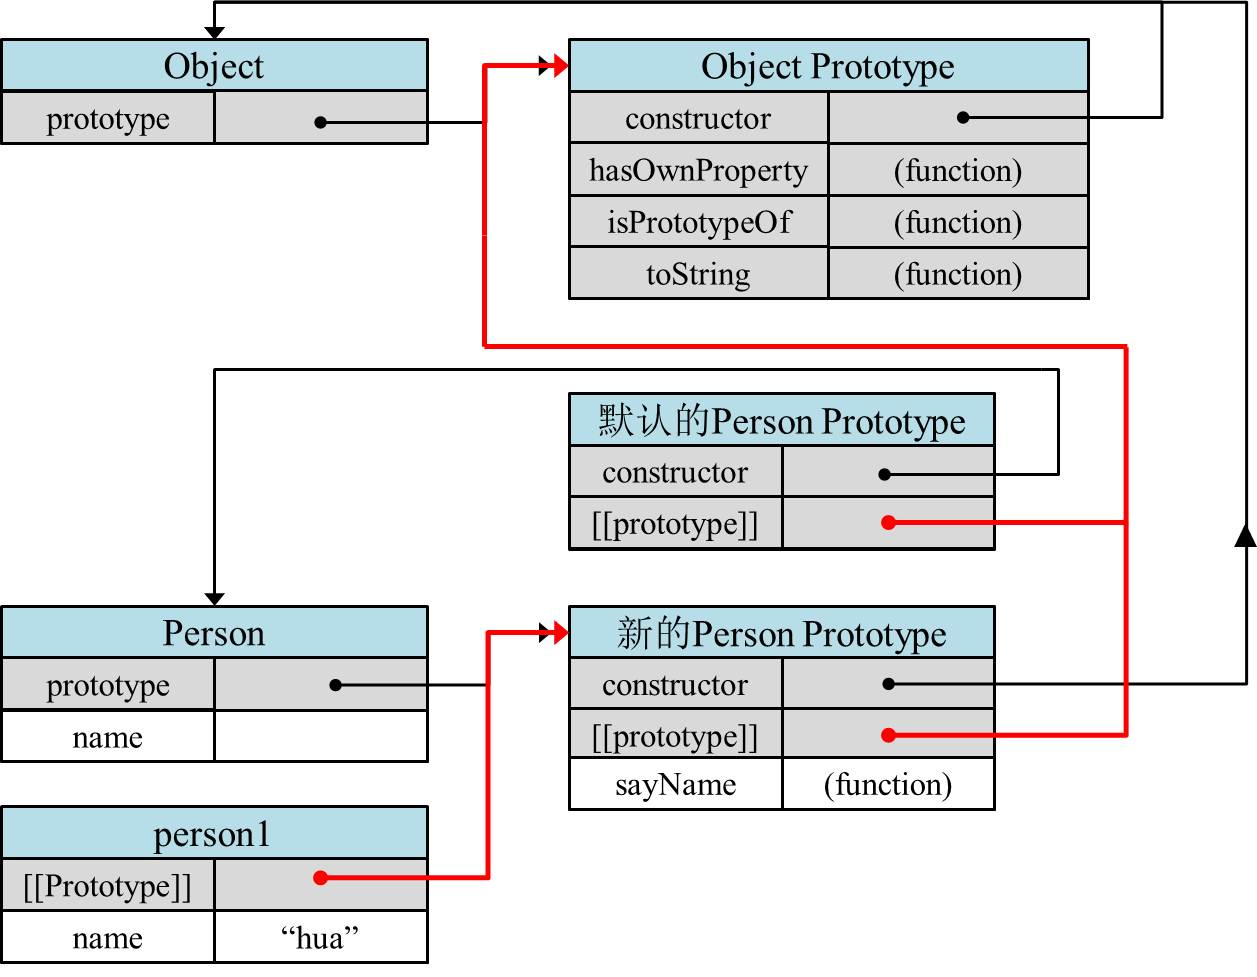
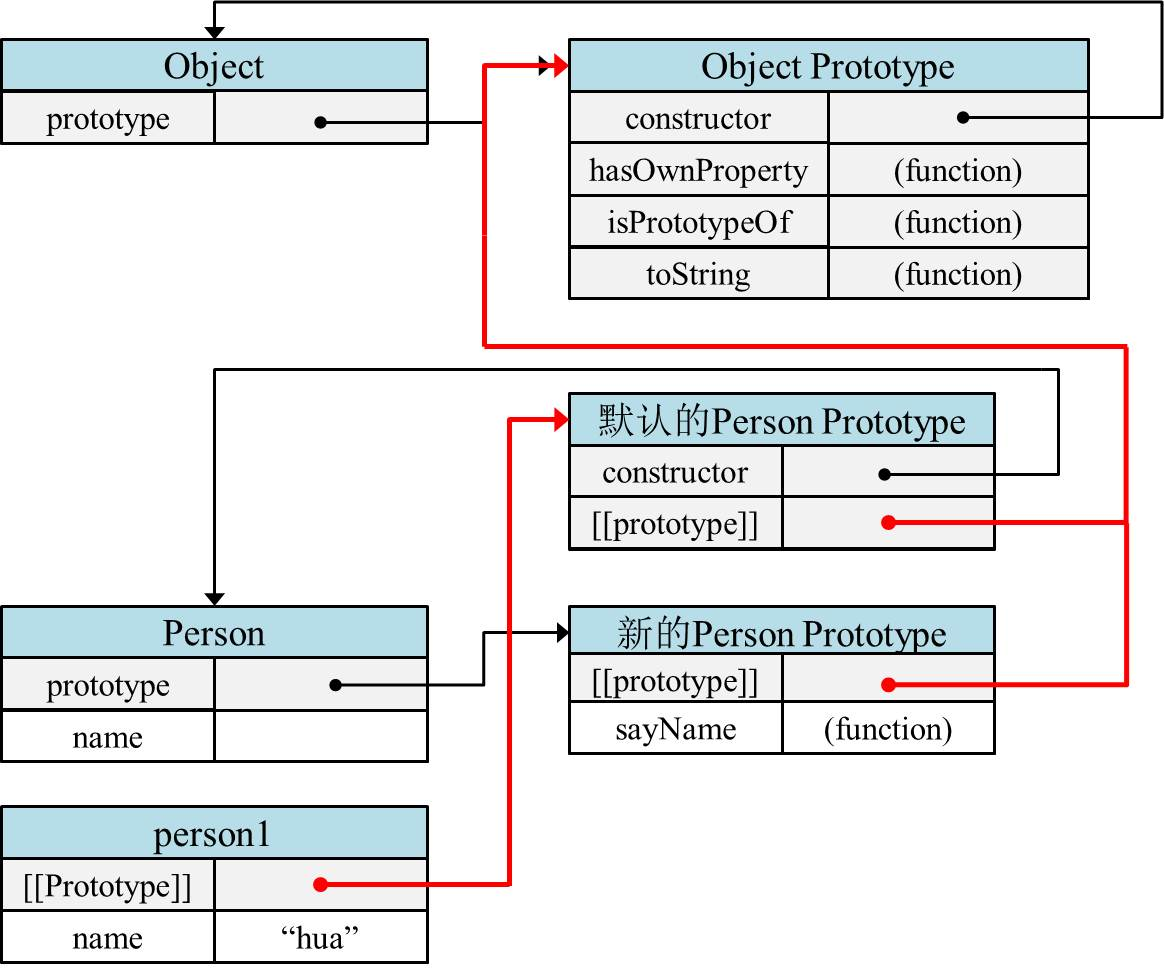
Site updated: 2018-03-04 13:51:41

diff --git a/2017/11/18/深入理解JS系列-Part3（原型和继承）/index.html b/2017/11/18/深入理解JS系列-Part3（原型和继承）/index.html
@@ -81,11 +81,11 @@
 <meta property="og:image" content="http://yoursite.com/img/深入理解JS系列/obj.jpg">
 <meta property="og:image" content="http://yoursite.com/img/深入理解JS系列/add1.jpg">
 <meta property="og:image" content="http://yoursite.com/img/深入理解JS系列/add2.jpg">
+<meta property="og:image" content="http://yoursite.com/img/深入理解JS系列/chain.jpg">
 <meta property="og:image" content="http://yoursite.com/img/深入理解JS系列/rewrite.jpg">
 <meta property="og:image" content="http://yoursite.com/img/深入理解JS系列/constructor.jpg">
-<meta property="og:image" content="http://yoursite.com/img/深入理解JS系列/chain.jpg">
 <meta property="og:image" content="http://yoursite.com/img/深入理解JS系列/BnewA.jpg">
-<meta property="og:updated_time" content="2017-12-28T14:59:21.809Z">
+<meta property="og:updated_time" content="2018-03-04T05:49:26.667Z">
 <meta name="twitter:card" content="summary">
 <meta name="twitter:title" content="深入理解JS系列-Part3（原型和继承）">
 <meta name="twitter:description" content="本篇是深入理解JS系列 的Part3，我们将要探讨的是JavaScript区别于传统OO语言的新的继承机制：原型和继承。JavaScript中没有类，继承是通过原型来实现的。ES6虽然引入了class关键字，但只是语法糖，JavaScript仍然是基于原型的。原型和继承是JavaScript中的一个难点。我们只有深入理解原型和继承，才能构建如谷歌一样的大型复杂应用。 参考书籍：《JavaScrip">
@@ -365,10 +365,6 @@
 </li>
 </ul>
 <p><strong><em>因此，我们应该在构造函数中定义实例化的属性，在原型对象中定义方法和共享的属性，这样每个实例都会有自己的一份实例属性的副本，但同时又共享着对方法的引用。</em></strong></p>
-<h2 id="重写原型对象"><a href="#重写原型对象" class="headerlink" title="重写原型对象"></a>重写原型对象</h2><p>如果以对象字面量的语法来重写整个原型，代码示例如下：<br><figure class="highlight plain"><table><tr><td class="gutter"><pre><div class="line">1</div><div class="line">2</div><div class="line">3</div><div class="line">4</div><div class="line">5</div><div class="line">6</div><div class="line">7</div><div class="line">8</div><div class="line">9</div><div class="line">10</div></pre></td><td class="code"><pre><div class="line">function Person(name) &#123;</div><div class="line">    this.name = name;</div><div class="line">&#125;</div><div class="line">Person.prototype = &#123;</div><div class="line">    sayName: function() &#123;</div><div class="line">        console.log(this.name);</div><div class="line">    &#125;</div><div class="line">&#125;;</div><div class="line">var person1 = new Person(&quot;hua&quot;);</div><div class="line">person1.sayName();// hua</div></pre></td></tr></table></figure></p>
-<p>以上代码用图表示就是：<br><img src="/img/深入理解JS系列/rewrite.jpg" alt=""><br>我们会发现，将一个以对象字面量形式创建的新对象赋给Person.prototype后，虽然执行结果相同，但<strong><em>原型对象的constructor属性不再指向Person函数了</em></strong>，而是指向Object构造函数。<br>用代码证明如下：<br><figure class="highlight plain"><table><tr><td class="gutter"><pre><div class="line">1</div><div class="line">2</div></pre></td><td class="code"><pre><div class="line">Person.prototype.constructor === Person;// false</div><div class="line">Person.prototype.constructor === Object;// true</div></pre></td></tr></table></figure></p>
-<p>当constructor的指向很重要的时候，我们可以手动改变原型对象的constructor指向<br><figure class="highlight plain"><table><tr><td class="gutter"><pre><div class="line">1</div><div class="line">2</div><div class="line">3</div><div class="line">4</div><div class="line">5</div><div class="line">6</div></pre></td><td class="code"><pre><div class="line">Person.prototype = &#123;</div><div class="line">	constructor: Person,</div><div class="line">    sayName: function() &#123;</div><div class="line">        console.log(this.name);</div><div class="line">    &#125;</div><div class="line">&#125;;</div></pre></td></tr></table></figure></p>
-<p>改变后，如图所示：<br><img src="/img/深入理解JS系列/constructor.jpg" alt=""><br>我们会发现，改变constructor的指向并没有影响原型链，这货到底有什么用处，目前真没发现。</p>
 <h1 id="原型链"><a href="#原型链" class="headerlink" title="原型链"></a>原型链</h1><p>在上面的栗子中，我们展示了实例person1和它的原型对象Person.prototype的关系，我们顺着Person的原型对象向上追溯，顶端到底指向什么呢？？？<br>我们注意到，Person的原型对象指向Object.prototype。它们之间<strong><em>通过属性[[prototype]]来连接 ，形成了一条原型链  </em></strong>，原型链的顶端为Object.prototype：<br>person1 - - - &gt; Person.prototype - - - &gt; Object.prototype<br>用图表示就是：<br><img src="/img/深入理解JS系列/chain.jpg" alt=""></p>
 <h2 id="基于原型链的搜索机制"><a href="#基于原型链的搜索机制" class="headerlink" title="基于原型链的搜索机制"></a>基于原型链的搜索机制</h2><p>当我们需要读取对象的某个属性时，会执行一次搜索操作，搜索首先从对象实例开始，如果在对象实例中没有找到该属性，就会沿着原型链继续向上搜索，找到了就立刻停止，否则会直至顶端。<strong>这就是基于原型链的搜索机制。</strong><br>比如，在上面的原型链中搜索person1.sayName()，会经历以下两个步骤：<br>1）搜索实例person1<br>2）搜索Person.prototype，找到了sayName()方法，搜索过程停止<br>这种搜索机制会产生一种<strong><em>屏蔽效应 </em></strong>：<br>当为对象实例添加一个属性时，这个属性就会屏蔽原型链上层的<strong><em>同名属性 </em></strong>。屏蔽只是一个阻止访问的操作，并没有修改原型链。</p>
 <h2 id="Object-prototype"><a href="#Object-prototype" class="headerlink" title="Object.prototype"></a>Object.prototype</h2><p>我们知道，在ECMAScript中，所有的对象都是Object的实例，因此所有的原型对象默认都会包含一个指针，指向Object.prototype。<br>所以，这也就是为什么我们没有定义hasOwnProperty()、toString()等方法，而创建的每个对象却都能调用它们的真正原因。<br>同样，所有的原生引用类型（Array、String等等）之所以可以调用很多种方法也是因为在它们的原型中定义了这些方法。</p>
@@ -379,6 +375,10 @@
 <li><p>原型对象被重写之后会丢失constructor属性<br>Person.prototype的constructor属性是在<strong><em>Person函数声明时的默认属性 </em></strong>，一旦以一个新的对象来重写了Person.prototype，那么这个<strong><em>新的对象是不会自动获得constructor属性 </em></strong>的。</p>
 </li>
 </ul>
+<h2 id="重写原型对象"><a href="#重写原型对象" class="headerlink" title="重写原型对象"></a>重写原型对象</h2><p>如果以对象字面量的语法来重写整个原型，代码示例如下：<br><figure class="highlight plain"><table><tr><td class="gutter"><pre><div class="line">1</div><div class="line">2</div><div class="line">3</div><div class="line">4</div><div class="line">5</div><div class="line">6</div><div class="line">7</div><div class="line">8</div><div class="line">9</div><div class="line">10</div></pre></td><td class="code"><pre><div class="line">function Person(name) &#123;</div><div class="line">    this.name = name;</div><div class="line">&#125;</div><div class="line">Person.prototype = &#123;</div><div class="line">    sayName: function() &#123;</div><div class="line">        console.log(this.name);</div><div class="line">    &#125;</div><div class="line">&#125;;</div><div class="line">var person1 = new Person(&quot;hua&quot;);</div><div class="line">person1.sayName();// hua</div></pre></td></tr></table></figure></p>
+<p>以上代码用图表示就是：<br><img src="/img/深入理解JS系列/rewrite.jpg" alt=""><br>我们会发现，将一个以对象字面量形式创建的新对象赋给Person.prototype后，你会发现，<strong><em>这个新的原型对象自身是并不具备constructor属性，但却可以沿着原型链向上搜索它的原型Object.prototype。因此，这个新的原型对象的constructor属性不再指向Person函数了，而是指向Object构造函数。</em></strong><br>用代码证明如下：<br><figure class="highlight plain"><table><tr><td class="gutter"><pre><div class="line">1</div><div class="line">2</div></pre></td><td class="code"><pre><div class="line">Person.prototype.constructor === Person;// false</div><div class="line">Person.prototype.constructor === Object;// true</div></pre></td></tr></table></figure></p>
+<p>当constructor的指向很重要的时候，我们可以手动改变原型对象的constructor指向<br><figure class="highlight plain"><table><tr><td class="gutter"><pre><div class="line">1</div><div class="line">2</div><div class="line">3</div><div class="line">4</div><div class="line">5</div><div class="line">6</div></pre></td><td class="code"><pre><div class="line">Person.prototype = &#123;</div><div class="line">    constructor: Person,</div><div class="line">    sayName: function() &#123;</div><div class="line">        console.log(this.name);</div><div class="line">    &#125;</div><div class="line">&#125;;</div></pre></td></tr></table></figure></p>
+<p>改变后，如图所示：<br><img src="/img/深入理解JS系列/constructor.jpg" alt=""><br>我们会发现，改变constructor的指向并没有影响原型链，这货到底有什么用处，目前真没发现。</p>
 <h1 id="继承"><a href="#继承" class="headerlink" title="继承"></a>继承</h1><p>JavaScript中只有对象，没有类！！！它的继承相对于传统OO语言的类继承更为简单：<strong><em>一个对象可以继承在另一个对象中定义的属性和方法。  </em></strong><br><strong><em>在上面的栗子中，其实沿着原型链就实现了继承。处于原型链底端的对象可以向上继承。</em></strong><br>但是，如果两个对象并不在一条原型链上，它们之间并无关联。那么，怎么实现这两个对象之间的继承呢？？？<br>核心思想就是：<strong><em>将一个对象的原型指定为要继承的这个对象的实例，从而将两个对象关联起来。本质是重写原型对象。</em></strong></p>
 <h2 id="使用构造函数"><a href="#使用构造函数" class="headerlink" title="使用构造函数"></a>使用构造函数</h2><p>我们知道，使用构造函数可以new出来一个对象实例，如果将该实例赋给另一个对象的原型，是不是就实现了继承了呢？？？答案是肯定的。<br>可能不太好理解，我们来看一个栗子：<br><figure class="highlight plain"><table><tr><td class="gutter"><pre><div class="line">1</div><div class="line">2</div><div class="line">3</div><div class="line">4</div><div class="line">5</div><div class="line">6</div><div class="line">7</div><div class="line">8</div><div class="line">9</div><div class="line">10</div><div class="line">11</div><div class="line">12</div><div class="line">13</div><div class="line">14</div><div class="line">15</div><div class="line">16</div><div class="line">17</div></pre></td><td class="code"><pre><div class="line">function A() &#123;</div><div class="line">    this.A = &quot;i am a&quot;;</div><div class="line">&#125;</div><div class="line">A.prototype.sayA = function() &#123;</div><div class="line">    console.log(this.A);</div><div class="line">&#125;;</div><div class="line"></div><div class="line">function B() &#123;</div><div class="line">    this.B = &quot;i am b&quot;;</div><div class="line">&#125;</div><div class="line">B.prototype = new A();// 实现B继承自A</div><div class="line">B.prototype.sayB = function() &#123;</div><div class="line">    console.log(this.B);</div><div class="line">&#125;;</div><div class="line">var b1 = new B();</div><div class="line">b1.sayB();// i am b</div><div class="line">b1.sayA();// i am a</div></pre></td></tr></table></figure></p>
 <p>以上代码定义了两个类型：A和B，通过创建A的实例new A()，并将该实例赋给B的原型对象，实现了B继承自A。实现的本质是以一个类型A的实例重写了B的原型对象。<br>以上代码用图表示就是：<br><img src="/img/深入理解JS系列/BnewA.jpg" alt=""><br>这里有几点需要注意：</p>
@@ -595,7 +595,7 @@
             
 
             
-              <div class="post-toc-content"><ol class="nav"><li class="nav-item nav-level-1"><a class="nav-link" href="#理解原型对象"><span class="nav-number">1.</span> <span class="nav-text">理解原型对象</span></a><ol class="nav-child"><li class="nav-item nav-level-2"><a class="nav-link" href="#当我们定义了一个函数之后"><span class="nav-number">1.1.</span> <span class="nav-text">当我们定义了一个函数之后</span></a></li><li class="nav-item nav-level-2"><a class="nav-link" href="#然后，用new来调用函数，创建了一个对象"><span class="nav-number">1.2.</span> <span class="nav-text">然后，用new来调用函数，创建了一个对象</span></a></li><li class="nav-item nav-level-2"><a class="nav-link" href="#为原型对象添加方法"><span class="nav-number">1.3.</span> <span class="nav-text">为原型对象添加方法</span></a></li><li class="nav-item nav-level-2"><a class="nav-link" href="#重写原型对象"><span class="nav-number">1.4.</span> <span class="nav-text">重写原型对象</span></a></li></ol></li><li class="nav-item nav-level-1"><a class="nav-link" href="#原型链"><span class="nav-number">2.</span> <span class="nav-text">原型链</span></a><ol class="nav-child"><li class="nav-item nav-level-2"><a class="nav-link" href="#基于原型链的搜索机制"><span class="nav-number">2.1.</span> <span class="nav-text">基于原型链的搜索机制</span></a></li><li class="nav-item nav-level-2"><a class="nav-link" href="#Object-prototype"><span class="nav-number">2.2.</span> <span class="nav-text">Object.prototype</span></a></li><li class="nav-item nav-level-2"><a class="nav-link" href="#关于constructor属性的澄清"><span class="nav-number">2.3.</span> <span class="nav-text">关于constructor属性的澄清</span></a></li></ol></li><li class="nav-item nav-level-1"><a class="nav-link" href="#继承"><span class="nav-number">3.</span> <span class="nav-text">继承</span></a><ol class="nav-child"><li class="nav-item nav-level-2"><a class="nav-link" href="#使用构造函数"><span class="nav-number">3.1.</span> <span class="nav-text">使用构造函数</span></a></li><li class="nav-item nav-level-2"><a class="nav-link" href="#使用Object-create"><span class="nav-number">3.2.</span> <span class="nav-text">使用Object.create()</span></a></li></ol></li><li class="nav-item nav-level-1"><a class="nav-link" href="#最后想说"><span class="nav-number">4.</span> <span class="nav-text">最后想说</span></a></li></ol></div>
+              <div class="post-toc-content"><ol class="nav"><li class="nav-item nav-level-1"><a class="nav-link" href="#理解原型对象"><span class="nav-number">1.</span> <span class="nav-text">理解原型对象</span></a><ol class="nav-child"><li class="nav-item nav-level-2"><a class="nav-link" href="#当我们定义了一个函数之后"><span class="nav-number">1.1.</span> <span class="nav-text">当我们定义了一个函数之后</span></a></li><li class="nav-item nav-level-2"><a class="nav-link" href="#然后，用new来调用函数，创建了一个对象"><span class="nav-number">1.2.</span> <span class="nav-text">然后，用new来调用函数，创建了一个对象</span></a></li><li class="nav-item nav-level-2"><a class="nav-link" href="#为原型对象添加方法"><span class="nav-number">1.3.</span> <span class="nav-text">为原型对象添加方法</span></a></li></ol></li><li class="nav-item nav-level-1"><a class="nav-link" href="#原型链"><span class="nav-number">2.</span> <span class="nav-text">原型链</span></a><ol class="nav-child"><li class="nav-item nav-level-2"><a class="nav-link" href="#基于原型链的搜索机制"><span class="nav-number">2.1.</span> <span class="nav-text">基于原型链的搜索机制</span></a></li><li class="nav-item nav-level-2"><a class="nav-link" href="#Object-prototype"><span class="nav-number">2.2.</span> <span class="nav-text">Object.prototype</span></a></li><li class="nav-item nav-level-2"><a class="nav-link" href="#关于constructor属性的澄清"><span class="nav-number">2.3.</span> <span class="nav-text">关于constructor属性的澄清</span></a></li><li class="nav-item nav-level-2"><a class="nav-link" href="#重写原型对象"><span class="nav-number">2.4.</span> <span class="nav-text">重写原型对象</span></a></li></ol></li><li class="nav-item nav-level-1"><a class="nav-link" href="#继承"><span class="nav-number">3.</span> <span class="nav-text">继承</span></a><ol class="nav-child"><li class="nav-item nav-level-2"><a class="nav-link" href="#使用构造函数"><span class="nav-number">3.1.</span> <span class="nav-text">使用构造函数</span></a></li><li class="nav-item nav-level-2"><a class="nav-link" href="#使用Object-create"><span class="nav-number">3.2.</span> <span class="nav-text">使用Object.create()</span></a></li></ol></li><li class="nav-item nav-level-1"><a class="nav-link" href="#最后想说"><span class="nav-number">4.</span> <span class="nav-text">最后想说</span></a></li></ol></div>
             
 
           </div>

diff --git a/2018/01/27/仿饿了么APP商家页面-总结Part2（CSS）/index.html b/2018/01/27/仿饿了么APP商家页面-总结Part2（CSS）/index.html
@@ -53,7 +53,7 @@
 <link href="/css/main.css?v=5.1.2" rel="stylesheet" type="text/css" />
 
 
-  <meta name="keywords" content="CSS,仿饿了么APP商家页面," />
+  <meta name="keywords" content="仿饿了么APP商家页面,CSS," />
 
 
 
@@ -70,7 +70,7 @@
 
 
 <meta name="description" content="本篇是商品房网签网备系统-总结的第二部分：CSS，内容比较零散，包括弹性盒子、垂直居中、同一行的inline-block元素间有缝隙、盒模型border-box、移动端1px边框、溢出文本显示省略号的效果、扩大点击区域等等。">
-<meta name="keywords" content="CSS,仿饿了么APP商家页面">
+<meta name="keywords" content="仿饿了么APP商家页面,CSS">
 <meta property="og:type" content="article">
 <meta property="og:title" content="仿饿了么APP商家页面-总结Part2（CSS）">
 <meta property="og:url" content="http://yoursite.com/2018/01/27/仿饿了么APP商家页面-总结Part2（CSS）/index.html">
@@ -455,9 +455,9 @@
       
         <div class="post-tags">
           
-            <a href="/tags/CSS/" rel="tag"># CSS</a>
-          
             <a href="/tags/仿饿了么APP商家页面/" rel="tag"># 仿饿了么APP商家页面</a>
+          
+            <a href="/tags/CSS/" rel="tag"># CSS</a>
           
         </div>
       

diff --git a/css/main.css b/css/main.css
@@ -1819,7 +1819,7 @@ pre .javascript .function {
   width: 4px;
   height: 4px;
   border-radius: 50%;
-  background: #d9cdf6;
+  background: #ff814a;
 }
 .links-of-blogroll {
   font-size: 13px;
